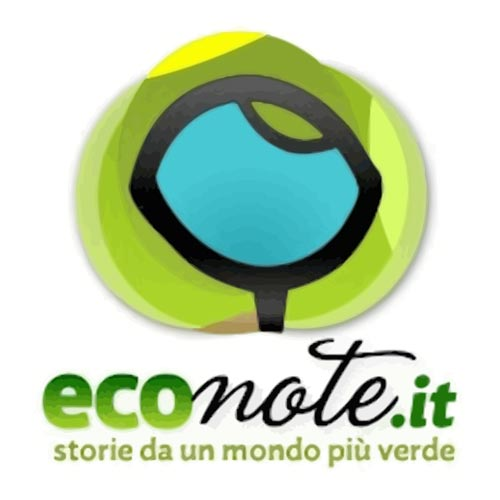
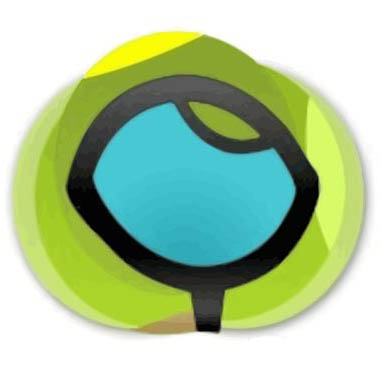
Up per econte

diff --git a/books/collection/econote/index.html b/books/collection/econote/index.html
@@ -1,6 +1,6 @@
 ---
 layout: collana
-cover: 
+cover: /static/img_cover/econote.jpg
 color: white
 collana: econote
 title: "Econote"
